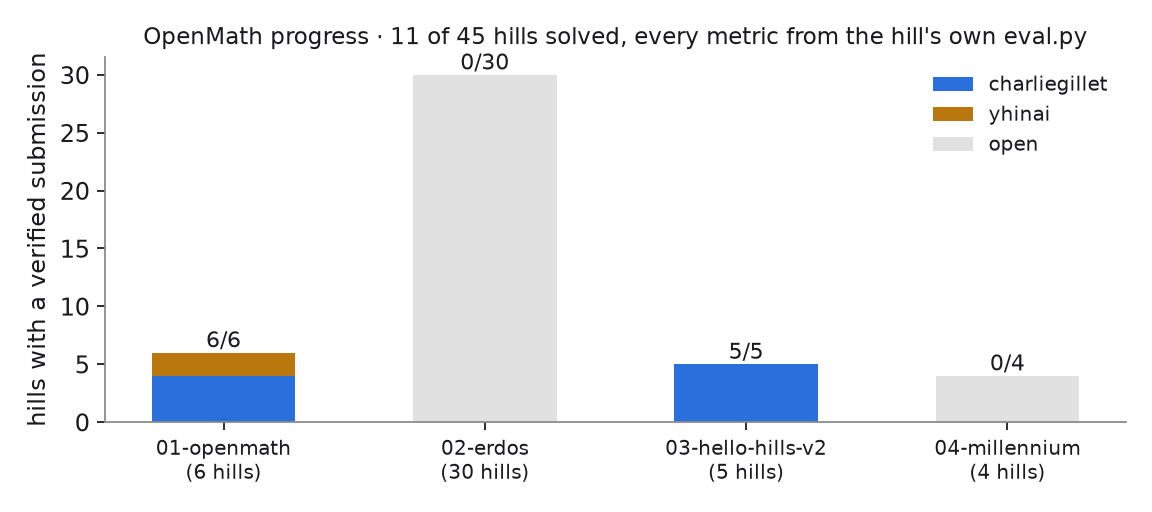
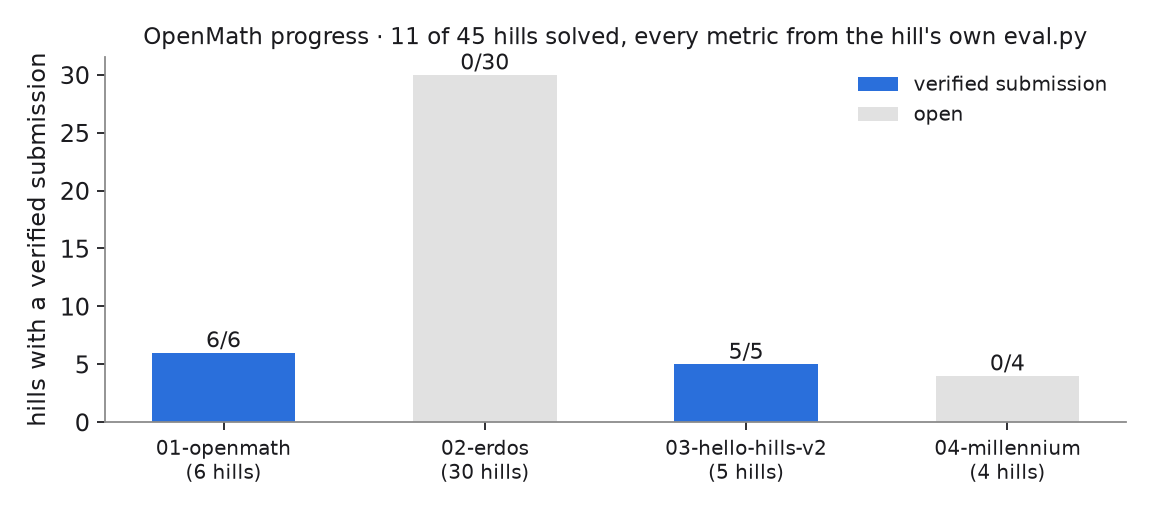
docs: present results as the team's work (drop the per-worker split)
The progress figure now shows one verified-submission bar per list with no worker
names, and FIGURES.md attributes everything to the team, with the metrics still
sourced from the hills' own eval.py.

Changed region(s): [[0.7188, 0.125, 0.9688, 0.3125], [0.125, 0.6875, 0.2812, 0.75]]

diff --git a/docs/make_result_figs.py b/docs/make_result_figs.py
@@ -33,24 +33,22 @@ C = ROOT / "challenges"
 
 
 def fig_progress():
-    """Hills with a verified submission, per list, split by worker (RESULTS.md)."""
+    """Hills with a verified submission, per list (challenges/RESULTS.md)."""
     lists = ["01-openmath\n(6 hills)", "02-erdos\n(30 hills)", "03-hello-hills-v2\n(5 hills)",
              "04-millennium\n(4 hills)"]
-    done_cg = [4, 0, 5, 0]          # charliegillet: clique-ramsey, matmul, collatz, grothendieck | hello-v2 all five
-    done_yh = [2, 0, 0, 0]          # yhinai: busy-beaver, kobon
+    done = [6, 0, 5, 0]
     total = [6, 30, 5, 4]
     fig, ax = plt.subplots(figsize=(7.2, 3.2))
     x = np.arange(len(lists))
-    ax.bar(x, done_cg, width=0.55, color=BLUE, label="charliegillet")
-    ax.bar(x, done_yh, width=0.55, bottom=done_cg, color=AMBER, label="yhinai")
-    ax.bar(x, [t - c - y for t, c, y in zip(total, done_cg, done_yh)], width=0.55,
-           bottom=[c + y for c, y in zip(done_cg, done_yh)], color=GREY, alpha=0.25,
-           label="open")
-    for xi, (c, y, t) in enumerate(zip(done_cg, done_yh, total)):
-        ax.annotate(f"{c + y}/{t}", (xi, t), ha="center", va="bottom", fontsize=10)
+    ax.bar(x, done, width=0.55, color=BLUE, label="verified submission")
+    ax.bar(x, [t - d for t, d in zip(total, done)], width=0.55, bottom=done,
+           color=GREY, alpha=0.25, label="open")
+    for xi, (d, t) in enumerate(zip(done, total)):
+        ax.annotate(f"{d}/{t}", (xi, t), ha="center", va="bottom", fontsize=10)
     ax.set_xticks(x); ax.set_xticklabels(lists, fontsize=9)
     ax.set_ylabel("hills with a verified submission")
-    ax.set_title("OpenMath progress · 11 of 45 hills solved, every metric from the hill's own eval.py", fontsize=10.5)
+    ax.set_title("OpenMath progress · 11 of 45 hills solved, every metric from the hill's own eval.py",
+                 fontsize=10.5)
     ax.legend(frameon=False, fontsize=9)
     for s in ("top", "right"):
         ax.spines[s].set_visible(False)

diff --git a/docs/FIGURES.md b/docs/FIGURES.md
@@ -8,8 +8,8 @@ the metric values come from the hills' `hill/eval.py` as recorded in
 python3 docs/make_result_figs.py     # regenerates every figure below
 ```
 
-Attribution: solutions by **charliegillet** except `busy-beaver-6-certificates` and
-`kobon-triangles` (yhinai). Figures by yhinai.
+Attribution: every solution and figure in this repository is the team's work — all
+metrics come from the hills' own `hill/eval.py`.
 
 ---
 
